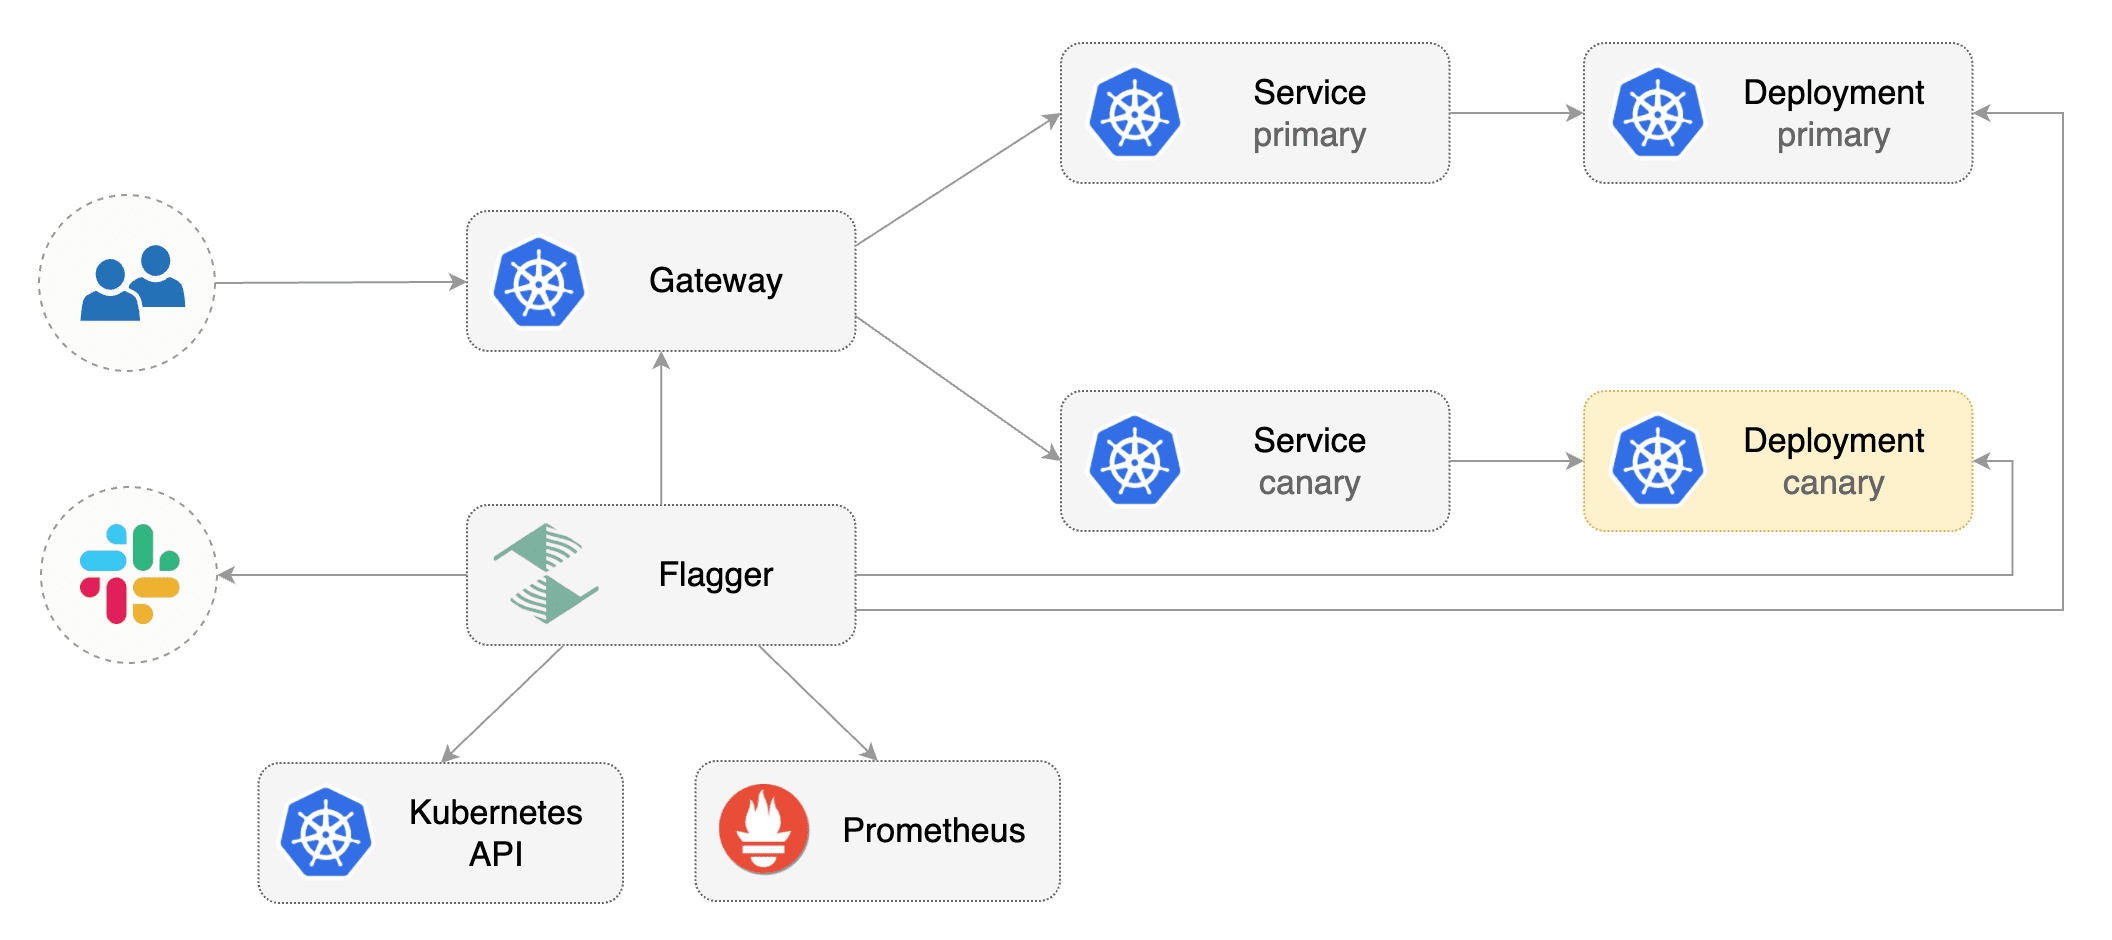
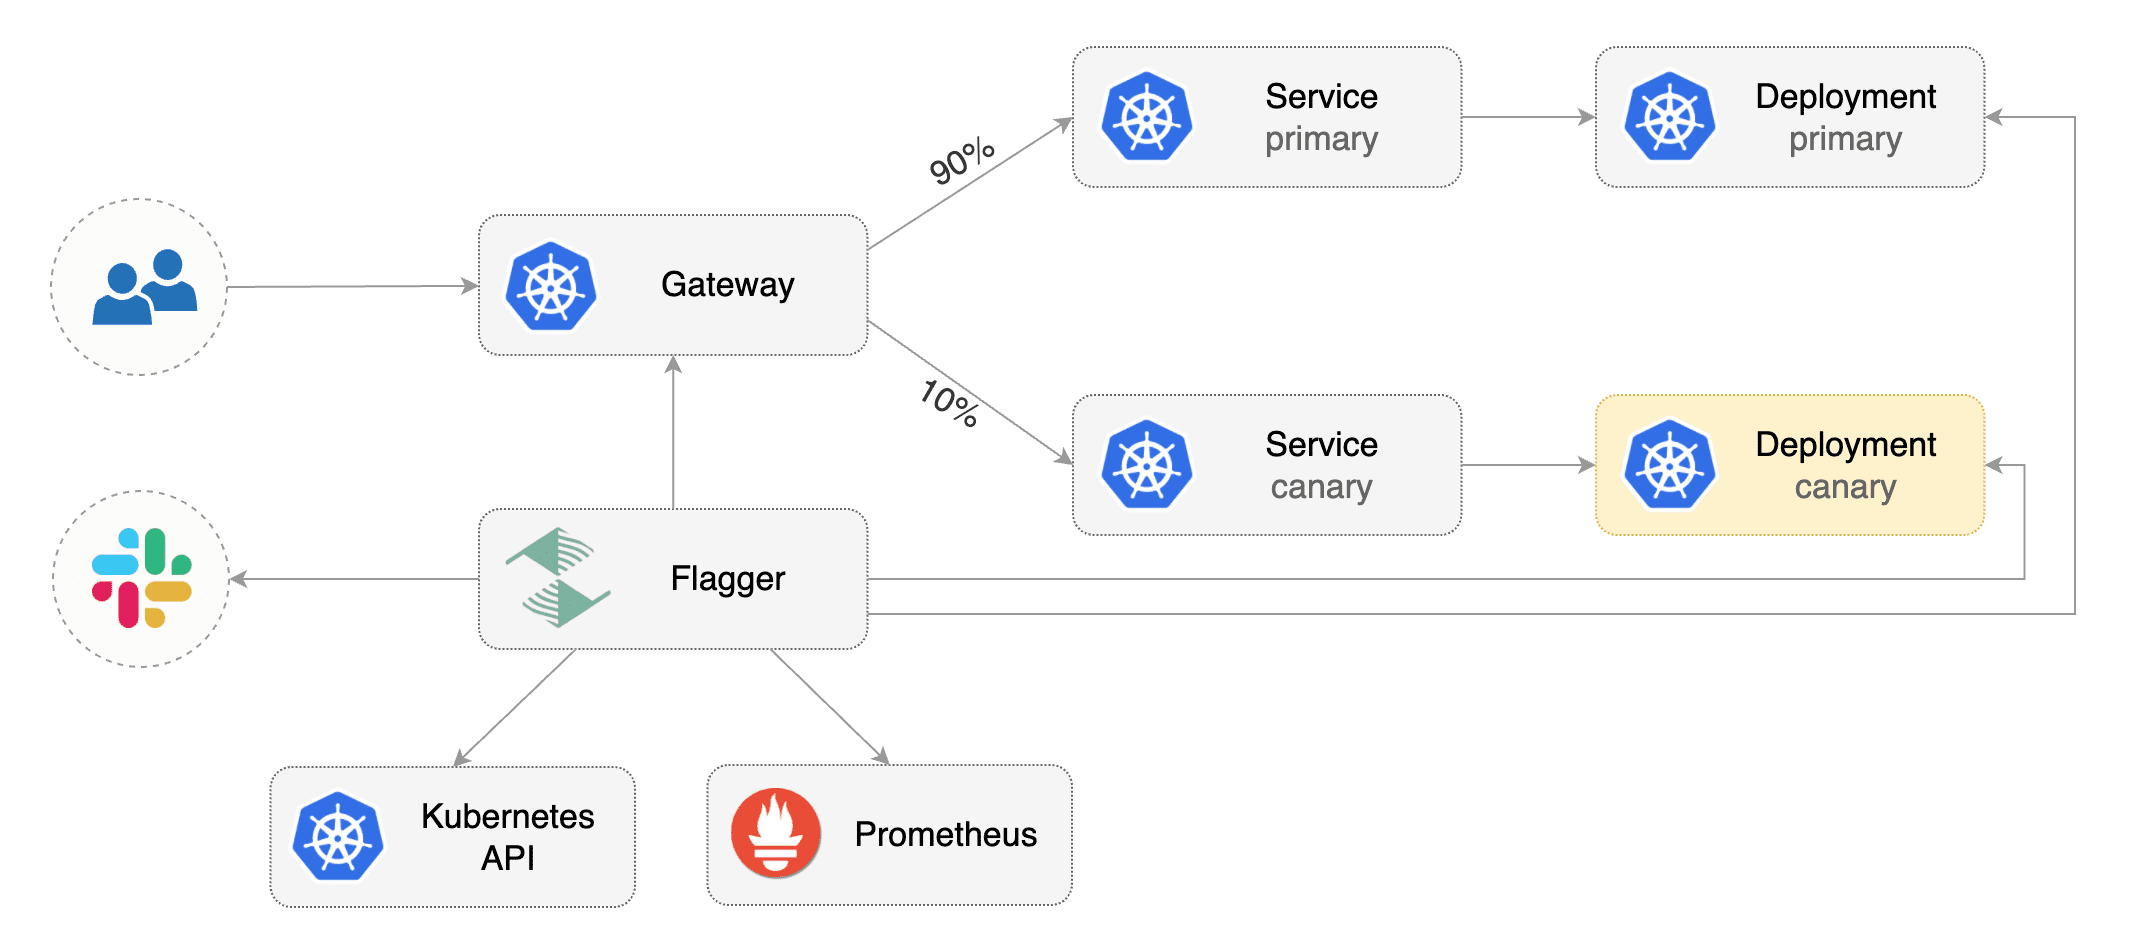
Update Flagger Gateway API diagram

diff --git a/content/en/blog/2022-03-11-flagger-is-adding-gateway-api/index.md b/content/en/blog/2022-03-11-flagger-is-adding-gateway-api/index.md
@@ -110,8 +110,8 @@ new service and the other 90% requests go to the stable service. You can
 read more about traffic splitting in Gateway API
 [here](https://gateway-api.sigs.k8s.io/v1alpha2/guides/traffic-splitting/).
 
-Flagger creates a `HTTPRoute` with the appropriate header matches, path
-matches, etc and attaches the primary and canary service to the
+Flagger fully automates the creation of `HTTPRoutes` with the appropriate header matches,
+path matches, etc and attaches the primary and canary service to the
 `HTTPRoute`. During the canary analysis, the weights related to both the
 services are adjusted accordingly.
 
